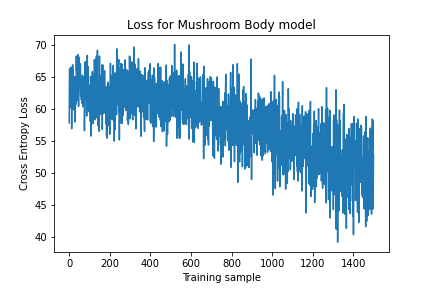
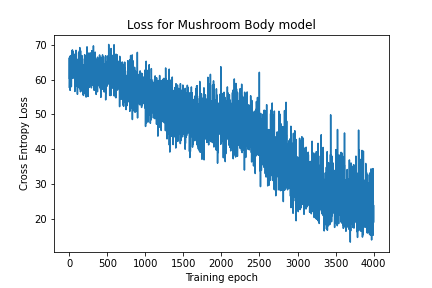
new results

diff --git a/train.py b/train.py
@@ -83,9 +83,13 @@ if __name__ == "__main__":
     dt = 0.5
     amount_of_actions = 100
     action_threshold = 20
-    epochs = 1500
+    epochs = 2500
     net = ComplexFly(batch, dt, device).to(device)
+    net.load_state_dict(torch.load('model_complex.pt'))
     enviro = Environment(amount_of_actions, action_threshold)
+    enviro_foods = torch.load('environment_vectors.pt')
+    enviro.odor_food = enviro_foods['odor_food']
+    enviro.odor_drink = enviro_foods['odor_drink']
     results = OptimizeModel(net, batch, enviro, amount_of_actions, epochs)
     fig, ax = plt.subplots()
     ax.plot(results)
@@ -94,11 +98,11 @@ if __name__ == "__main__":
     ax.set_title('Loss for Mushroom Body model')
     plt.savefig('results.png')
     plt.show()
+    torch.save({'results':results}, 'results_12_9_p2.pt')
+    torch.save(net.state_dict(), 'model_complex1.pt')
     
-    torch.save(net.state_dict(), 'model_complex.pt')
-    
-    enviro_vecs = {'odor_food': enviro.odor_food, 'odor_drink': enviro.odor_drink}
-    torch.save(enviro_vecs, 'environment_vectors.pt')
+    # enviro_vecs = {'odor_food': enviro.odor_food, 'odor_drink': enviro.odor_drink}
+    # torch.save(enviro_vecs, 'environment_vectors.pt')
     
     
     
